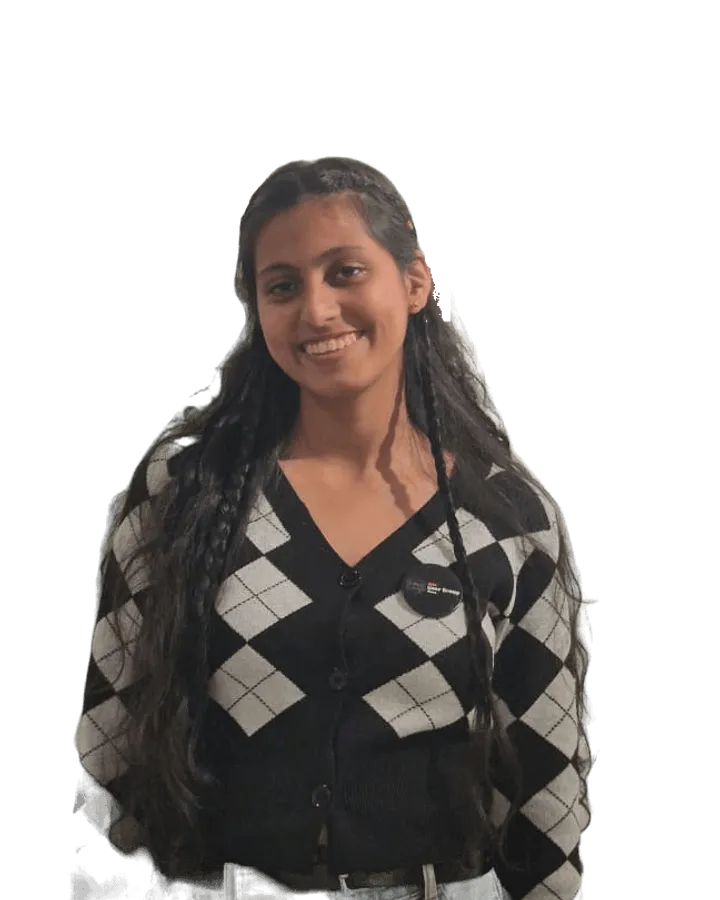
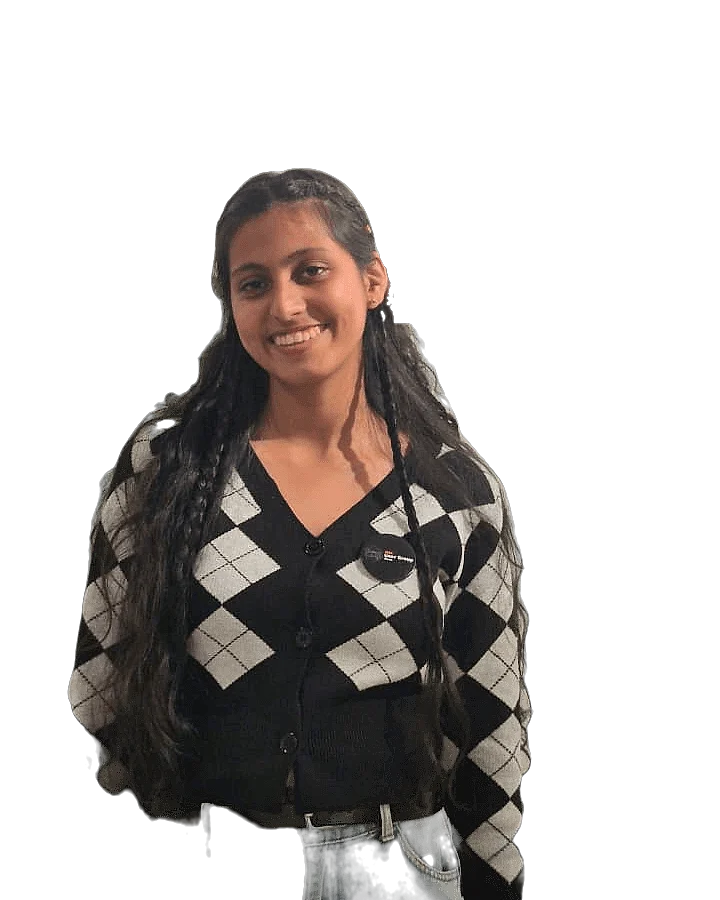
feat(team): darker liveries and a crisper captain portrait
- Liveries are darker towards the bottom-right so names and portraits
  stand out; cut-outs get a team-colour stage light behind them and a
  thin rim light.
- Neha's portrait re-cut: smoother hair edges (no wall halo), no
  upscaling, slightly brighter and sharper; larger on the captain card.
- fetch-team-photos: --enhance option, never upscales a focus crop,
  keeps transparency, higher WebP quality.

diff --git a/components/apps/team-app.tsx b/components/apps/team-app.tsx
@@ -370,7 +370,9 @@ function Livery({ team }: { team: TeamGroup }) {
   const livery = TEAM_LIVERY[team]
   return (
     <>
-      <div className="absolute inset-0" style={{ background: `linear-gradient(160deg, ${livery.color} 0%, ${livery.deep} 58%, #09090d 100%)` }} />
+      <div className="absolute inset-0" style={{ background: `linear-gradient(160deg, ${livery.color} 0%, ${livery.deep} 46%, #060609 100%)` }} />
+      {/* Darken towards the bottom-right so names and portraits pop */}
+      <div className="absolute inset-0 bg-gradient-to-br from-black/5 via-black/25 to-black/55" />
       <div
         className="absolute inset-0 opacity-25 mix-blend-overlay"
         style={{
@@ -417,6 +419,13 @@ function Portrait({ member, team, large = false }: { member: TeamMember; team: T
     const mask = kind === "cutout" ? FADE_BOTTOM : VIGNETTE
     return (
       <>
+        {kind === "cutout" && (
+          <span
+            aria-hidden="true"
+            className="pointer-events-none absolute left-1/2 top-[22%] aspect-square w-[78%] -translate-x-1/2 rounded-full opacity-70 blur-3xl"
+            style={{ background: `radial-gradient(circle, ${TEAM_LIVERY[team].color}, transparent 70%)` }}
+          />
+        )}
         {/* eslint-disable-next-line @next/next/no-img-element */}
         <img
           ref={onImage}
@@ -428,7 +437,9 @@ function Portrait({ member, team, large = false }: { member: TeamMember; team: T
           onError={() => setKind("photo")}
           className={cn(
             "absolute inset-x-0 bottom-0 w-full object-cover object-top transition-[transform,opacity] duration-500 group-hover:scale-[1.04]",
-            kind === "cutout" ? "h-[94%] drop-shadow-[0_12px_28px_rgba(0,0,0,0.45)]" : "h-[90%]",
+            kind === "cutout"
+              ? "h-[94%] [filter:drop-shadow(0_0_1px_rgba(255,255,255,0.35))_drop-shadow(0_14px_30px_rgba(0,0,0,0.55))]"
+              : "h-[90%]",
             kind === "loading" ? "opacity-0" : "opacity-100"
           )}
           style={{ maskImage: mask, WebkitMaskImage: mask, transformOrigin: "50% 100%" }}
@@ -440,9 +451,7 @@ function Portrait({ member, team, large = false }: { member: TeamMember; team: T
             style={{ background: `linear-gradient(165deg, ${TEAM_LIVERY[team].color}aa, transparent 55%)` }}
           />
         )}
-        {kind === "cutout" && large && (
-          <span aria-hidden="true" className="pointer-events-none absolute inset-x-[15%] bottom-[8%] h-1/3 rounded-full bg-white/20 blur-3xl" />
-        )}
+
       </>
     )
   }
@@ -490,7 +499,7 @@ function DriverCard({ driver, hero = false, tagline, onOpen }: { driver: Driver;
           {carNumber(member)}
         </span>
 
-        <div className={cn("absolute inset-0", hero && "@xl:left-auto @xl:w-[48%]")}>
+        <div className={cn("absolute inset-0", hero && "@xl:left-auto @xl:w-[54%]")}>
           <Portrait member={member} team={team} large={hero} />
         </div>
 
